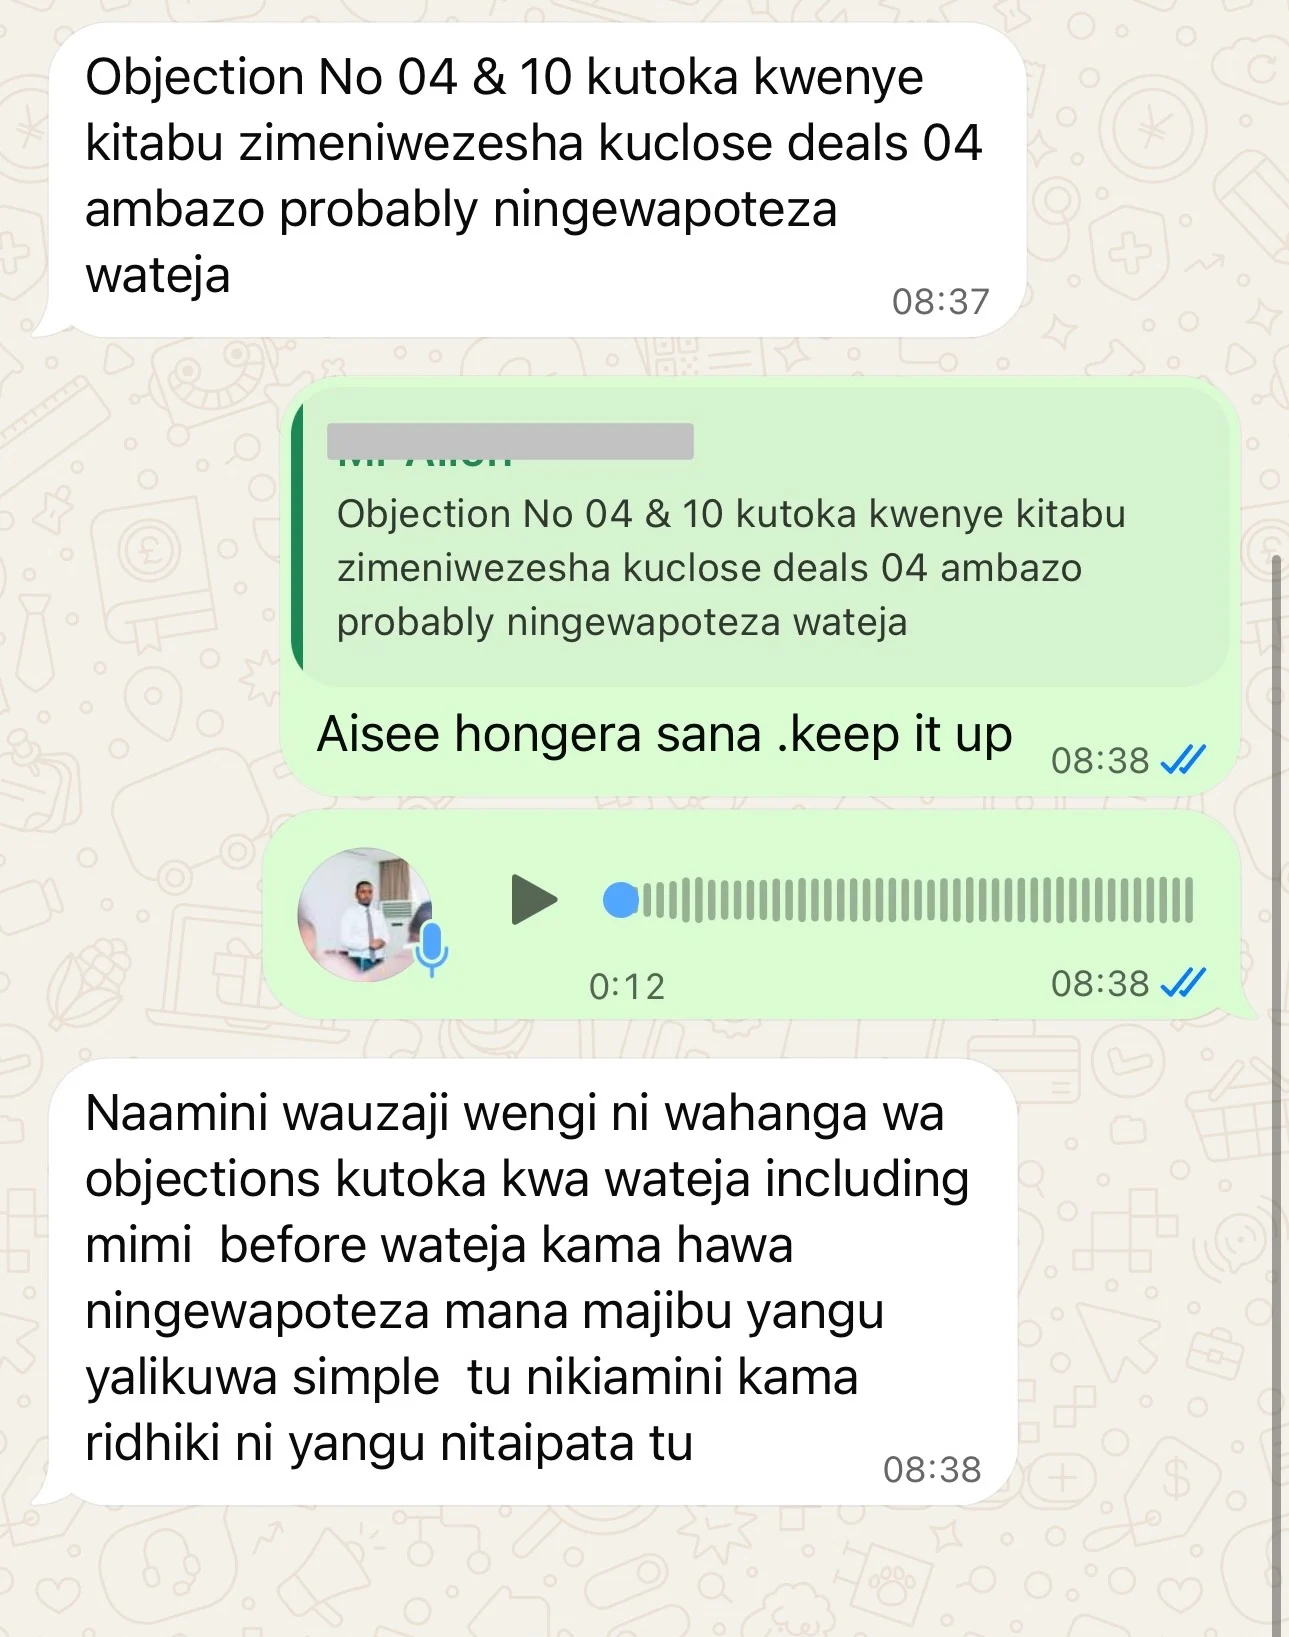
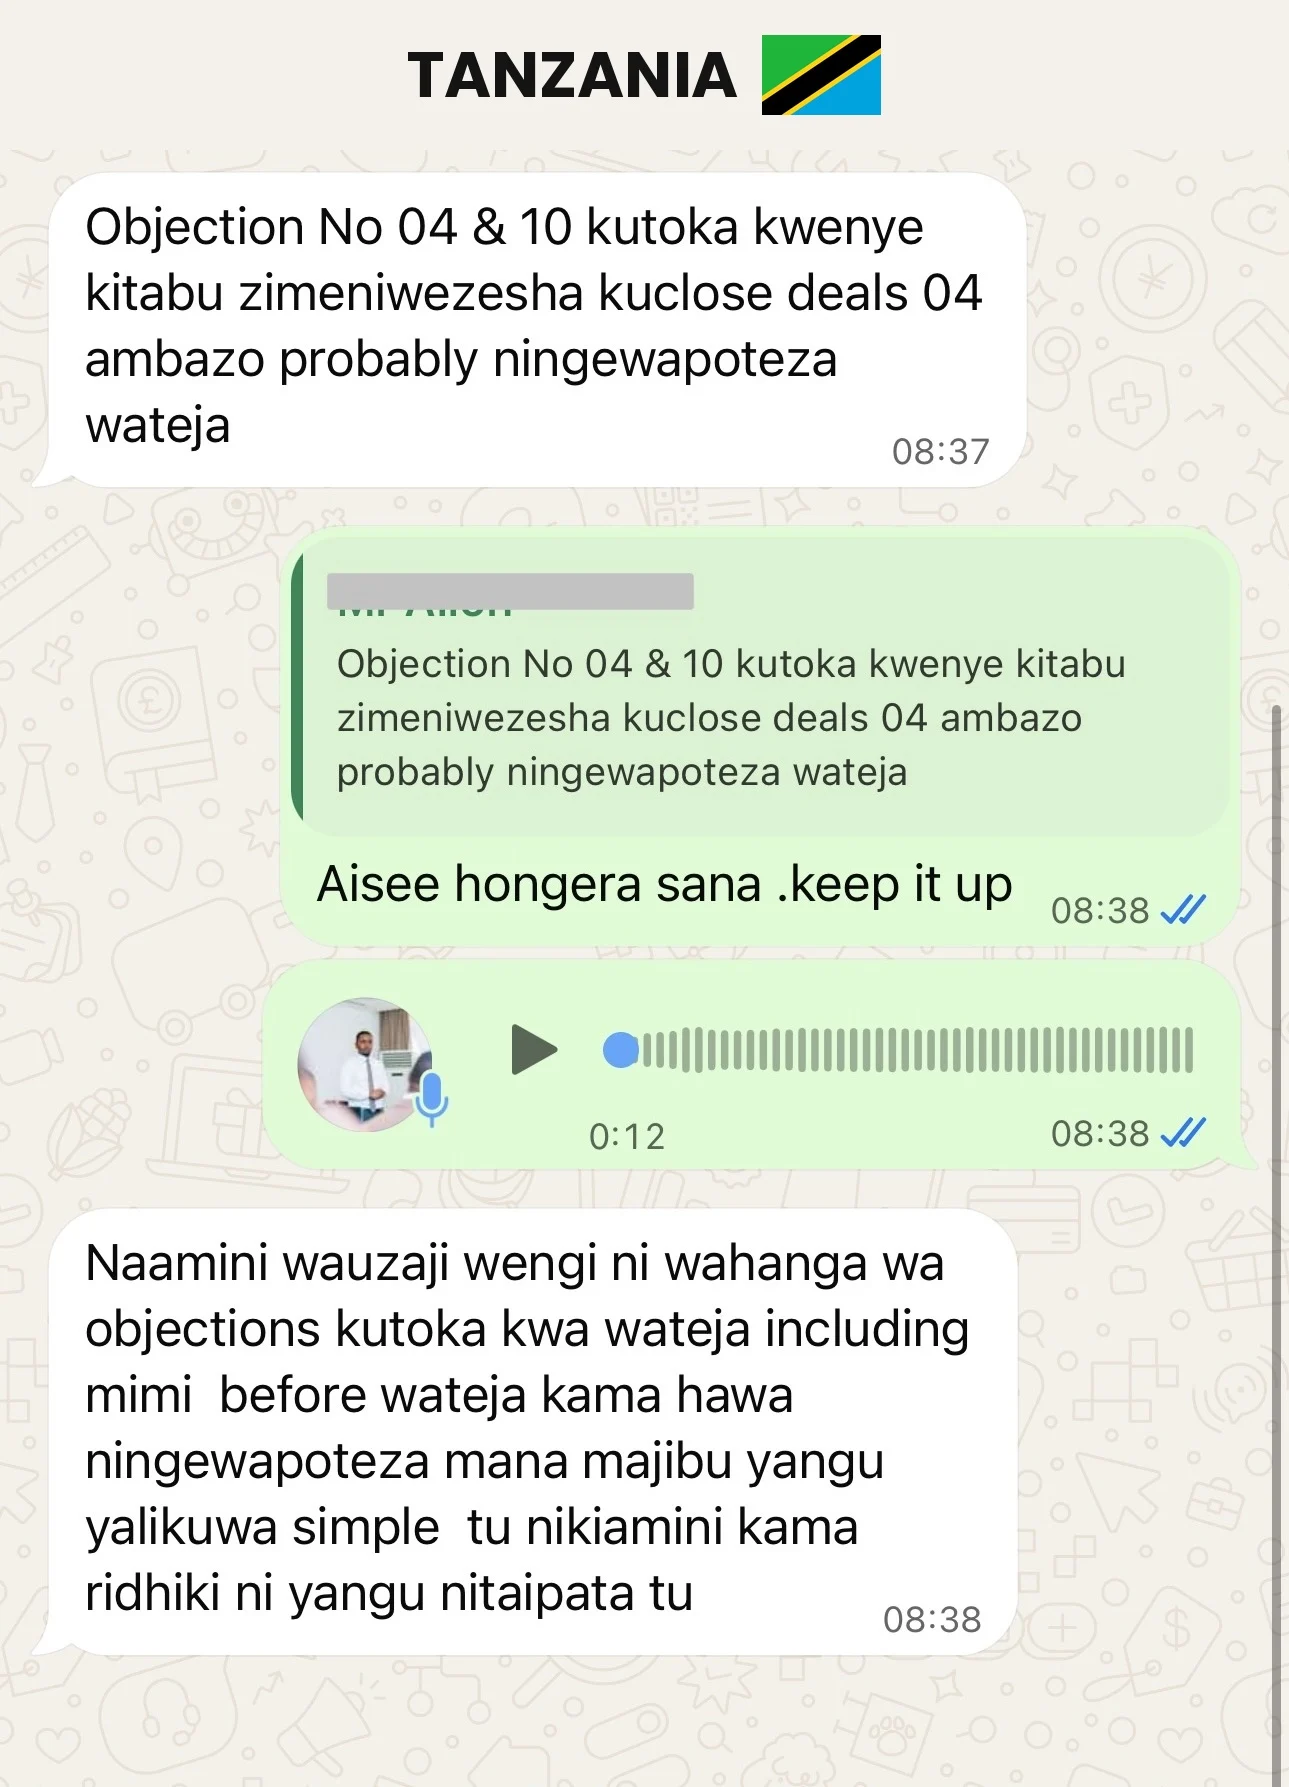
commit

diff --git a/components/testimonial-shots.tsx b/components/testimonial-shots.tsx
@@ -29,9 +29,9 @@ const SHOTS = [
   },
   {
     src: "/images/testimonial-wa-2.webp",
-    alt: "WhatsApp testimonial — objection 04 na 10 zimemsaidia ku-close deals 04",
+    alt: "WhatsApp testimonial kutoka Tanzania — objection 04 na 10 zimemsaidia ku-close deals 04",
     quote: "“Zimeniwezesha ku-close deals 04”",
-    ratio: "1289 / 1637",
+    ratio: "1289 / 1787",
   },
 ]
 
@@ -88,7 +88,7 @@ export function TestimonialShots() {
         {TRACK.map((shot, i) => (
           <figure
             key={`${shot.src}-${i}`}
-            className="w-48 shrink-0 select-none sm:w-56 lg:w-60"
+            className="w-64 shrink-0 select-none sm:w-80 lg:w-[340px]"
             draggable={false}
           >
             {/* Dashboard-style card */}
@@ -97,15 +97,12 @@ export function TestimonialShots() {
               <div className="flex items-center gap-1.5 border-b border-line px-3 py-2">
                 <HugeiconsIcon
                   icon={WhatsappIcon}
-                  className="size-3.5 text-[#25D366]"
+                  className="size-4 text-[#25D366]"
                   strokeWidth={2.2}
                 />
-                <span className="text-[10px] font-bold tracking-[0.14em] text-ink uppercase">
-                  WhatsApp
-                </span>
                 <HugeiconsIcon
                   icon={CheckmarkBadge01Icon}
-                  className="ml-auto size-3.5 text-navy"
+                  className="ml-auto size-4 text-navy"
                   strokeWidth={1.8}
                 />
               </div>
@@ -117,13 +114,13 @@ export function TestimonialShots() {
                   src={shot.src}
                   alt={shot.alt}
                   fill
-                  sizes="(max-width: 640px) 192px, (max-width: 1024px) 224px, 240px"
+                  sizes="(max-width: 640px) 256px, (max-width: 1024px) 320px, 340px"
                   className="object-contain"
                   draggable={false}
                 />
               </div>
             </div>
-            <figcaption className="mt-3 text-center text-[11px] font-bold text-ink sm:text-xs">
+            <figcaption className="mt-3 text-center text-xs font-bold text-ink sm:text-sm">
               {shot.quote}
             </figcaption>
           </figure>
